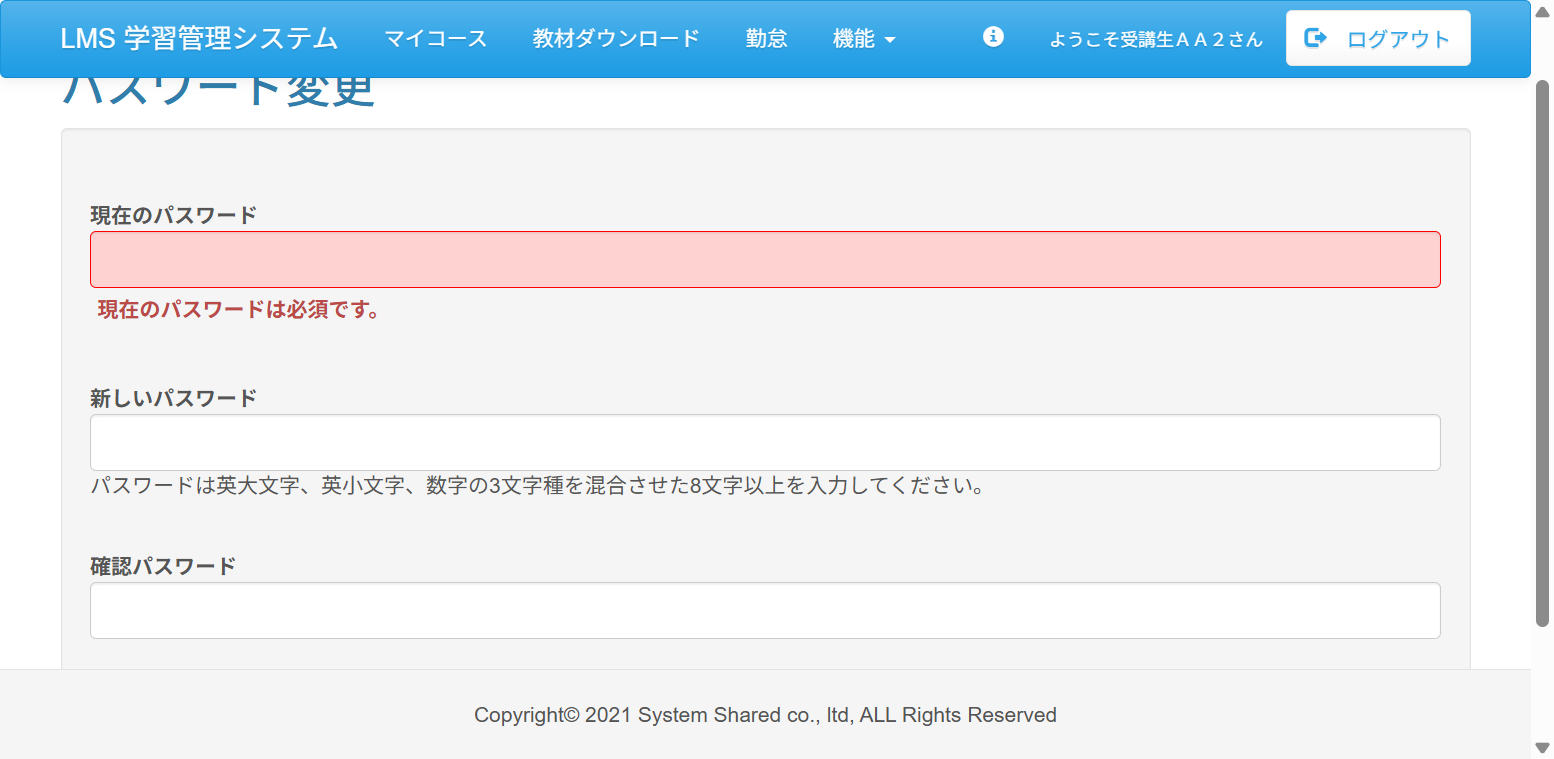
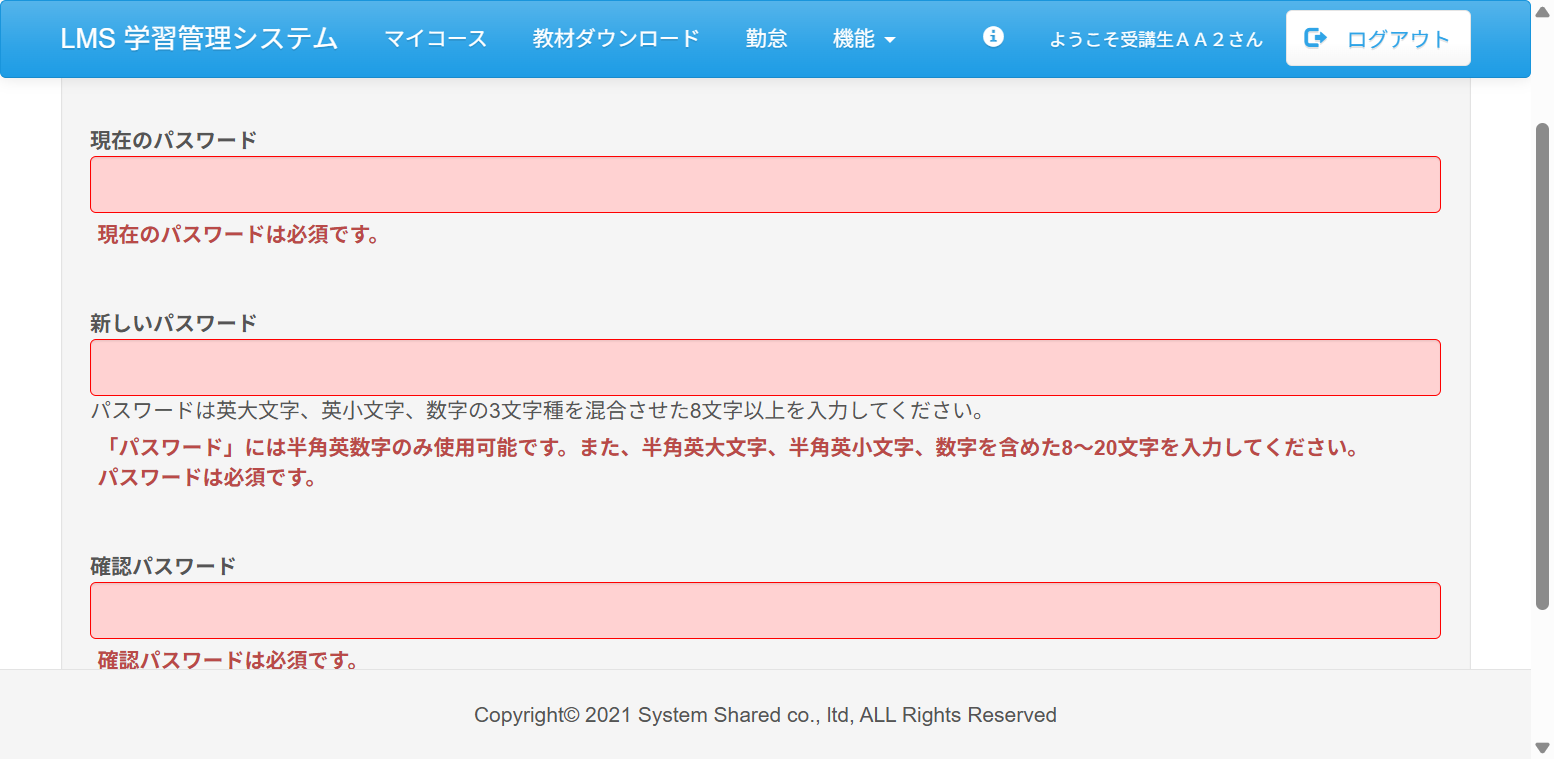
fix:未入力チェックの対象を全てに変更

diff --git a/test_code_creation_name/src/test/java/jp/co/sss/lms/ct/f06_login2/Case16.java b/test_code_creation_name/src/test/java/jp/co/sss/lms/ct/f06_login2/Case16.java
@@ -99,14 +99,6 @@ public class Case16 {
 	@Order(4)
 	@DisplayName("テスト04 パスワードを未入力で「変更」ボタン押下")
 	void test04() throws Exception {
-		scrollBy("50");
-		WebElement password = webDriver.findElement(By.name("password"));
-		password.clear();
-		password.sendKeys("tisUserAA02");
-
-		WebElement passwordConfirm = webDriver.findElement(By.name("passwordConfirm"));
-		passwordConfirm.clear();
-		passwordConfirm.sendKeys("tisUserAA02");
 		scrollBy("200");
 
 		webDriver.findElement(By.xpath("//*[@id=\"upd-form\"]/div[1]/fieldset/div[4]/div/button[2]")).click();
@@ -115,11 +107,20 @@ public class Case16 {
 		}
 		webDriver.findElement(By.xpath("//*[@id=\"upd-btn\"]")).click();
 		pageLoadTimeout(20);
-		scrollBy("50");
+		scrollBy("100");
 
-		String errorMsg = webDriver.findElement(By.xpath("//*[@id=\"upd-form\"]/div[1]/fieldset/div[1]/div/ul/li/span"))
+		String currentErrorMsg = webDriver
+				.findElement(By.xpath("//*[@id=\"upd-form\"]/div[1]/fieldset/div[1]/div/ul/li/span"))
 				.getText();
-		assertEquals("現在のパスワードは必須です。", errorMsg);
+		assertEquals("現在のパスワードは必須です。", currentErrorMsg);
+		String newErrorMsg = webDriver
+				.findElement(By.xpath("//*[@id=\"upd-form\"]/div[1]/fieldset/div[2]/div/ul/li/span"))
+				.getText();
+		assertTrue(newErrorMsg.contains("パスワードは必須です。"));
+		String confirmErrorMsg = webDriver
+				.findElement(By.xpath("//*[@id=\"upd-form\"]/div[1]/fieldset/div[3]/div/ul/li/span"))
+				.getText();
+		assertEquals("確認パスワードは必須です。", confirmErrorMsg);
 
 		File file = ((TakesScreenshot) webDriver).getScreenshotAs(OutputType.FILE);
 		FileUtils.copyFile(file,
